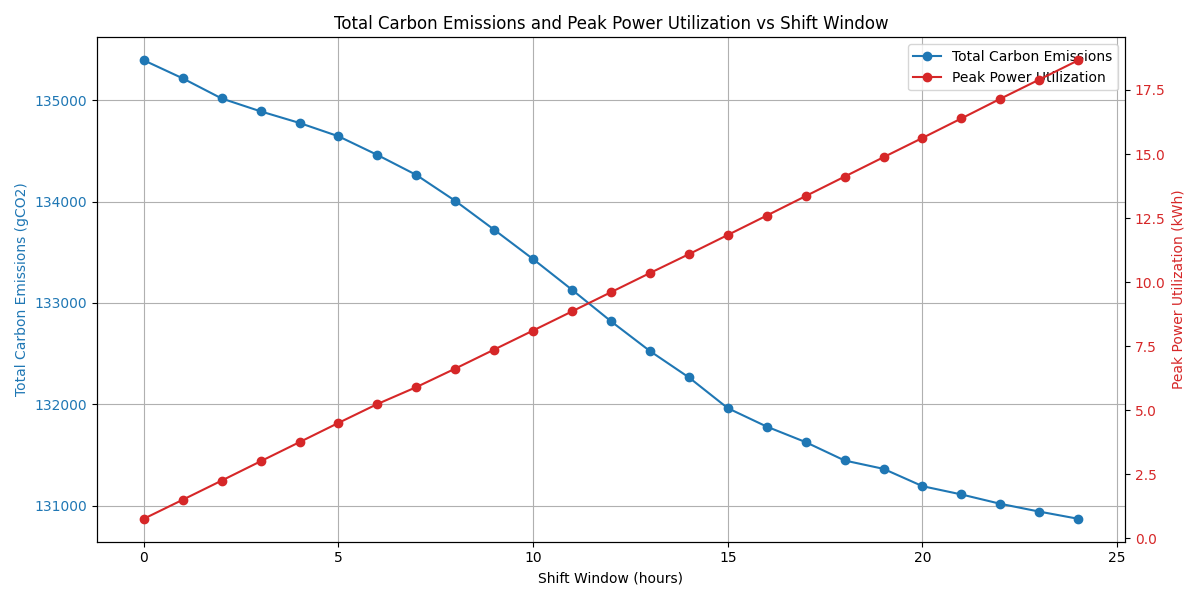
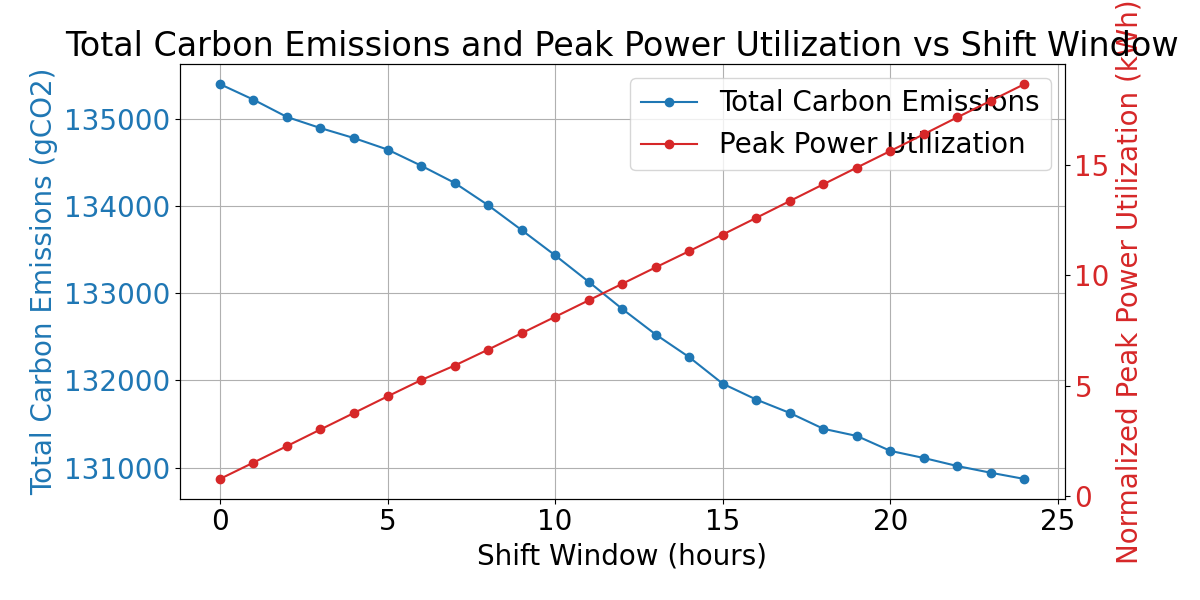
Update Graph fonts

Changed region(s): [[0.0, 0.0, 0.9867, 0.99], [0.74, 0.63, 0.7708, 0.69]]

diff --git a/algorithm_temporal_shift/temporal_shift_singleDataPoint.py b/algorithm_temporal_shift/temporal_shift_singleDataPoint.py
@@ -12,6 +12,8 @@ ciso_name = 'CISO'  # Define the name of the CISO dataset
 power_trace_path = Path('..') / 'data_powerTrace' / 'cella_pdu6_converted.csv'
 ci_data_path = Path('..') / 'data_SPC24' / f'SPCI-{ciso_name}' / f'{ciso_name}_direct_24hr_CI_forecasts_spci__alpha_0.1.csv'
 
+plt.rcParams.update({'font.size': 16})
+
 power_trace_df = pd.read_csv(power_trace_path, parse_dates=['hour'])
 ci_data = pd.read_csv(ci_data_path, parse_dates=['datetime'])
 
@@ -73,20 +75,20 @@ if generate_image:
 
     # Plot actual carbon intensity
     plt.subplot(3, 1, 1)
-    plt.plot(merged_df['datetime'], merged_df['actual'], label='Actual Carbon Intensity', color='green')
-    plt.title('Actual Carbon Intensity')
+    plt.plot(merged_df['datetime'], merged_df['actual'], label='True Carbon Intensity distribution', color='green')
+    plt.title('True Carbon Intensity distribution')
     plt.ylabel('gCO2/kWh')
-    plt.legend()
+    # plt.legend()
 
     # Plot shifted (or original) power utilization
     plt.subplot(3, 1, 2)
     plt.plot(merged_df['datetime'], merged_df['shifted_power_util'], label='Power Utilization', color='blue')
     if shift_window > 0:
-        plt.title('Shifted Power Utilization')
+        plt.title('Normalized Power Utilization distribution. (Peak load without shift = 1.0)')
     else:
         plt.title('Original Power Utilization (No Shifting)')
-    plt.ylabel('kWh')
-    plt.legend()
+    plt.ylabel('Normalized kWh')
+    # plt.legend()
 
     # Plot emissions
     plt.subplot(3, 1, 3)
@@ -97,7 +99,7 @@ if generate_image:
         plt.title('Emissions Without Shifting')
     plt.xlabel('Time')
     plt.ylabel('gCO2')
-    plt.legend()
+    # plt.legend()
 
     plt.tight_layout()
 

diff --git a/algorithm_temporal_shift_power_cap_uncertainity/temporal_shift_power_cap_24hrWindow.py b/algorithm_temporal_shift_power_cap_uncertainity/temporal_shift_power_cap_24hrWindow.py
@@ -8,8 +8,10 @@ generate_image = False
 generate_csv = False  # Set to False to avoid generating multiple CSV files
 
 # Define dataset and paths
-ciso_name = 'CISO'  # Define the name of the CISO dataset
+ciso_name = 'ERCO'  # Define the name of the CISO dataset
 power_trace_path = Path('..') / 'data_powerTrace' / 'cella_pdu6_converted.csv'
+
+plt.rcParams.update({'font.size': 20})
 
 # Define alpha levels and corresponding file paths
 alpha_levels = [0.1, 0.05, 0.01]
@@ -145,13 +147,13 @@ for shift_window in shift_windows:
                 f.write(f"Total Carbon Emissions: {emissions:.2f} gCO2\n")
 
 # Plot total emissions vs. shift window for all alpha levels and the predicted-only case
-plt.figure(figsize=(10,6))
+plt.figure(figsize=(15,10))
 markers = ['o', 's', 'D']
 colors = ['blue', 'green', 'red']
 for alpha, marker, color in zip(alpha_levels, markers, colors):
     plt.plot(shift_windows, total_emissions_alpha[alpha], marker=marker, label=f'Alpha Level {alpha}', color=color)
 # Add the predicted-only case
-plt.plot(shift_windows, total_emissions_predicted, marker='^', label='Predicted Only (No CI)', color='purple')
+plt.plot(shift_windows, total_emissions_predicted, marker='^', label='Predicted Only (No Confidence Interval)', color='purple')
 
 plt.title('Total Carbon Emissions vs. Shift Window Size')
 plt.xlabel('Shift Window Size (hours)')

diff --git a/algorithm_temporal_shift/temporal_shift_24hrWindow.py b/algorithm_temporal_shift/temporal_shift_24hrWindow.py
@@ -7,6 +7,8 @@ ciso_name = 'ISNE'  # Define the name of the CISO dataset
 power_trace_path = Path('..') / 'data_powerTrace' / 'cella_pdu6_converted.csv'
 ci_data_path = Path('..') / 'data_SPC24' / f'SPCI-{ciso_name}' / f'{ciso_name}_direct_24hr_CI_forecasts_spci__alpha_0.1.csv'
 
+plt.rcParams.update({'font.size': 20})
+
 power_trace_df = pd.read_csv(power_trace_path, parse_dates=['hour'])
 ci_data = pd.read_csv(ci_data_path, parse_dates=['datetime'])
 
@@ -74,7 +76,7 @@ ax2 = ax1.twinx()
 
 # Plot peak power utilization on the right y-axis
 color = 'tab:red'
-ax2.set_ylabel('Peak Power Utilization (kWh)', color=color)
+ax2.set_ylabel('Normalized Peak Power Utilization (kWh)', color=color)
 ax2.plot(shift_windows, peak_power_utilization_list, marker='o', linestyle='-', color=color, label='Peak Power Utilization')
 ax2.tick_params(axis='y', labelcolor=color)
 

diff --git a/algorithm_no_optimization/algorithm_no_optimization.py b/algorithm_no_optimization/algorithm_no_optimization.py
@@ -2,8 +2,11 @@ import pandas as pd
 import matplotlib.pyplot as plt
 from pathlib import Path
 
+# Increase all font sizes
+plt.rcParams.update({'font.size': 16})
+
 # Define the CISO name variable
-ciso_name = 'ERCO'
+ciso_name = 'CISO'
 
 # Define paths to the updated CSV files using the CISO variable
 power_trace_path = Path('..') / 'data_powerTrace' / 'cella_pdu6_converted.csv'
